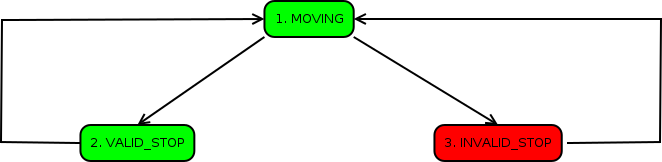
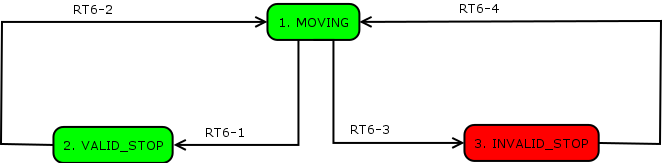
change rmonitor state chart

diff --git a/verify/verfication.html b/verify/verfication.html
@@ -30,26 +30,18 @@
       white-space: normal; widows: auto; word-spacing: 0px;
       -webkit-text-stroke-width: 0px; display: inline !important; float:
       none;">Group 9- Yichao Xue &nbsp;&nbsp;&nbsp; &nbsp;&nbsp;&nbsp;
-      yichaox</span><br style="color: rgb(0, 0, 0); font-family: Times;
-      font-size: medium; font-style: normal; font-variant: normal;
-      font-weight: normal; letter-spacing: normal; line-height: normal;
-      orphans: auto; text-align: start; text-indent: 0px;
+      yichaox</span><span style="color: rgb(0, 0, 0); font-family:
+      Times; font-size: medium; font-style: normal; font-variant:
+      normal; font-weight: normal; letter-spacing: normal; line-height:
+      normal; orphans: auto; text-align: start; text-indent: 0px;
       text-transform: none; white-space: normal; widows: auto;
-      word-spacing: 0px; -webkit-text-stroke-width: 0px;">
-    <span style="color: rgb(0, 0, 0); font-family: Times; font-size:
-      medium; font-style: normal; font-variant: normal; font-weight:
-      normal; letter-spacing: normal; line-height: normal; orphans:
-      auto; text-align: start; text-indent: 0px; text-transform: none;
-      white-space: normal; widows: auto; word-spacing: 0px;
-      -webkit-text-stroke-width: 0px; display: inline !important; float:
-      none;">&nbsp;&nbsp;&nbsp; &nbsp;&nbsp;&nbsp; &nbsp;&nbsp;&nbsp;
-      &nbsp;&nbsp;&nbsp; Priya Mahajan&nbsp;&nbsp;&nbsp; priyam</span><br
-      style="color: rgb(0, 0, 0); font-family: Times; font-size: medium;
-      font-style: normal; font-variant: normal; font-weight: normal;
-      letter-spacing: normal; line-height: normal; orphans: auto;
-      text-align: start; text-indent: 0px; text-transform: none;
-      white-space: normal; widows: auto; word-spacing: 0px;
-      -webkit-text-stroke-width: 0px;">
+      word-spacing: 0px; -webkit-text-stroke-width: 0px; display: inline
+      !important; float: none;"></span><br style="color: rgb(0, 0, 0);
+      font-family: Times; font-size: medium; font-style: normal;
+      font-variant: normal; font-weight: normal; letter-spacing: normal;
+      line-height: normal; orphans: auto; text-align: start;
+      text-indent: 0px; text-transform: none; white-space: normal;
+      widows: auto; word-spacing: 0px; -webkit-text-stroke-width: 0px;">
     <span style="color: rgb(0, 0, 0); font-family: Times; font-size:
       medium; font-style: normal; font-variant: normal; font-weight:
       normal; letter-spacing: normal; line-height: normal; orphans:
@@ -87,7 +79,53 @@
       none;">R-T6: The Car shall only stop at Floors for which there are
       pending calls.<br>
       <br>
-      <img alt="rt6" src="RT6.png" height="162" width="662"><br>
+      <img alt="rt6" src="RT6.png" height="163" width="662"><br>
+      <br>
+    </span>
+    <table border="1" cellpadding="2" cellspacing="2" height="178"
+      width="890">
+      <tbody>
+        <tr>
+          <td valign="top">Transition #<br>
+          </td>
+          <td valign="top">Conditions<br>
+          </td>
+        </tr>
+        <tr>
+          <td valign="top">RT6-1<br>
+          </td>
+          <td valign="top">mDriveSpeed &lt;= LevelSpeed AND&nbsp; any
+            mHallCall[currenfloor, b] is true or mCallCall[currentfloor,
+            b] is true<br>
+          </td>
+        </tr>
+        <tr>
+          <td valign="top">RT6-2<br>
+          </td>
+          <td valign="top">mDriveSpeed &gt; LevelSpeed</td>
+        </tr>
+        <tr>
+          <td valign="top">RT6-2<br>
+          </td>
+          <td valign="top">mDriveSpeed &lt;= LevelSpeed AND&nbsp; all
+            mHallCall[currenfloor, b] or mCallCall[currentfloor, b] are
+            not true<br>
+          </td>
+        </tr>
+        <tr>
+          <td valign="top">RT6-4<br>
+          </td>
+          <td valign="top">mDriveSpeed &gt; LevelSpeed</td>
+        </tr>
+      </tbody>
+    </table>
+    <span style="color: rgb(0, 0, 0); font-family: Times; font-size:
+      medium; font-style: normal; font-variant: normal; font-weight:
+      normal; letter-spacing: normal; line-height: normal; orphans:
+      auto; text-align: start; text-indent: 0px; text-transform: none;
+      white-space: normal; widows: auto; word-spacing: 0px;
+      -webkit-text-stroke-width: 0px; display: inline !important; float:
+      none;"><br>
       <br>
       <br>
     </span><br>
@@ -101,7 +139,53 @@
       none;">R-T7: The Car shall only open Doors at Hallways for which
       there are pending calls.<br>
       <br>
-      <img alt="rt7" src="RT7.png" height="137" width="635"><br>
+      <img alt="rt7" src="RT7.png" height="153" width="624"><br>
+    </span><br>
+    <table border="1" cellpadding="2" cellspacing="2" height="178"
+      width="890">
+      <tbody>
+        <tr>
+          <td valign="top">Transition #<br>
+          </td>
+          <td valign="top">Conditions<br>
+          </td>
+        </tr>
+        <tr>
+          <td valign="top">RT7-1<br>
+          </td>
+          <td valign="top">any mDoorMotor[b, r] is open AND any
+            mHallCall[currenfloor, b] is true or mCallCall[currentfloor,
+            b] is true<br>
+          </td>
+        </tr>
+        <tr>
+          <td valign="top">RT7-2<br>
+          </td>
+          <td valign="top">mDoorMotor[b, r] is not open</td>
+        </tr>
+        <tr>
+          <td valign="top">RT7-2<br>
+          </td>
+          <td valign="top">any mDoorMotor[b, r] is open AND all
+            mHallCall[currenfloor, b] or mCallCall[currentfloor, b] are
+            not true<br>
+          </td>
+        </tr>
+        <tr>
+          <td valign="top">RT7-4<br>
+          </td>
+          <td valign="top">mDoorMotor[b, r] is not open</td>
+        </tr>
+      </tbody>
+    </table>
+    <span style="color: rgb(0, 0, 0); font-family: Times; font-size:
+      medium; font-style: normal; font-variant: normal; font-weight:
+      normal; letter-spacing: normal; line-height: normal; orphans:
+      auto; text-align: start; text-indent: 0px; text-transform: none;
+      white-space: normal; widows: auto; word-spacing: 0px;
+      -webkit-text-stroke-width: 0px; display: inline !important; float:
+      none;"><br>
+      <br>
       <br>
       <br>
     </span>
@@ -116,6 +200,49 @@
       pending calls at any other floor(s), a Car Lantern shall turn on.<br>
       <br>
       <img alt="rt8_1" src="RT8_1.png" height="113" width="572"><br>
+    </span><br>
+    <table border="1" cellpadding="2" cellspacing="2" height="178"
+      width="890">
+      <tbody>
+        <tr>
+          <td valign="top">Transition #<br>
+          </td>
+          <td valign="top">Conditions<br>
+          </td>
+        </tr>
+        <tr>
+          <td valign="top">RT8_1-1<br>
+          </td>
+          <td valign="top"><br>
+          </td>
+        </tr>
+        <tr>
+          <td valign="top">RT8_1-2<br>
+          </td>
+          <td valign="top"><br>
+          </td>
+        </tr>
+        <tr>
+          <td valign="top">RT8_1-3<br>
+          </td>
+          <td valign="top"><br>
+          </td>
+        </tr>
+        <tr>
+          <td valign="top">RT8_1-4<br>
+          </td>
+          <td valign="top"><br>
+          </td>
+        </tr>
+      </tbody>
+    </table>
+    <span style="color: rgb(0, 0, 0); font-family: Times; font-size:
+      medium; font-style: normal; font-variant: normal; font-weight:
+      normal; letter-spacing: normal; line-height: normal; orphans:
+      auto; text-align: left; text-indent: 0px; text-transform: none;
+      white-space: normal; widows: auto; word-spacing: 0px;
+      -webkit-text-stroke-width: 0px; display: inline !important; float:
+      none;"><br>
       <br>
       <br>
     </span>
@@ -181,6 +308,8 @@
             Test Name<br>
           </td>
           <td style="vertical-align: top; font-weight: bold;">Verification
+
+
 
 
             Status<br>
